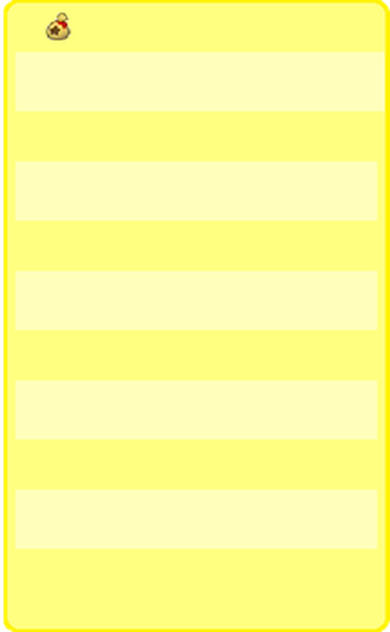
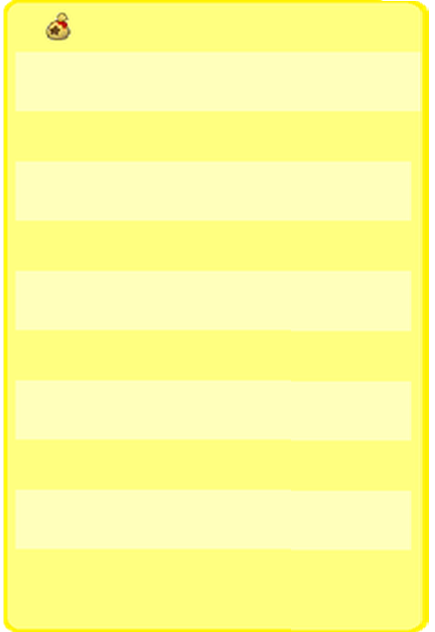
Commit
thin ice stuff will def need to be resized sorry

Changed region(s): [[0.6462, 0.0, 1.0, 1.0], [0.0, 0.0, 0.0615, 1.0], [0.0923, 0.0, 0.1846, 0.0902]]

diff --git a/Assets/Minigames/Thin Ice/Tiled/doubleice.tsx b/Assets/Minigames/Thin Ice/Tiled/doubleice.tsx
@@ -1,0 +1,4 @@
+<?xml version="1.0" encoding="UTF-8"?>
+<tileset version="1.2" tiledversion="1.3.1" name="doubleice" tilewidth="60" tileheight="60" tilecount="1" columns="1">
+ <image source="double ice.png" trans="003039" width="60" height="60"/>
+</tileset>

diff --git a/Assets/Minigames/Thin Ice/Tiled/outside.tsx b/Assets/Minigames/Thin Ice/Tiled/outside.tsx
@@ -1,0 +1,4 @@
+<?xml version="1.0" encoding="UTF-8"?>
+<tileset version="1.2" tiledversion="1.3.1" name="outside" tilewidth="60" tileheight="60" tilecount="1" columns="1">
+ <image source="outside.png" trans="003039" width="60" height="60"/>
+</tileset>

diff --git a/Assets/Minigames/Thin Ice/Tiled/end.tsx b/Assets/Minigames/Thin Ice/Tiled/end.tsx
@@ -1,0 +1,4 @@
+<?xml version="1.0" encoding="UTF-8"?>
+<tileset version="1.2" tiledversion="1.3.1" name="end" tilewidth="60" tileheight="60" tilecount="1" columns="1">
+ <image source="finish.png" trans="003039" width="60" height="60"/>
+</tileset>

diff --git a/Assets/Minigames/Thin Ice/Tiled/walls.tsx b/Assets/Minigames/Thin Ice/Tiled/walls.tsx
@@ -1,0 +1,4 @@
+<?xml version="1.0" encoding="UTF-8"?>
+<tileset version="1.2" tiledversion="1.3.1" name="walls" tilewidth="60" tileheight="60" tilecount="1" columns="1">
+ <image source="wall.png" trans="003039" width="60" height="60"/>
+</tileset>

diff --git a/Assets/Minigames/Thin Ice/Tiled/ice.tsx b/Assets/Minigames/Thin Ice/Tiled/ice.tsx
@@ -1,0 +1,4 @@
+<?xml version="1.0" encoding="UTF-8"?>
+<tileset version="1.2" tiledversion="1.3.1" name="ice" tilewidth="60" tileheight="60" tilecount="1" columns="1">
+ <image source="ice.png" trans="003039" width="60" height="60"/>
+</tileset>
